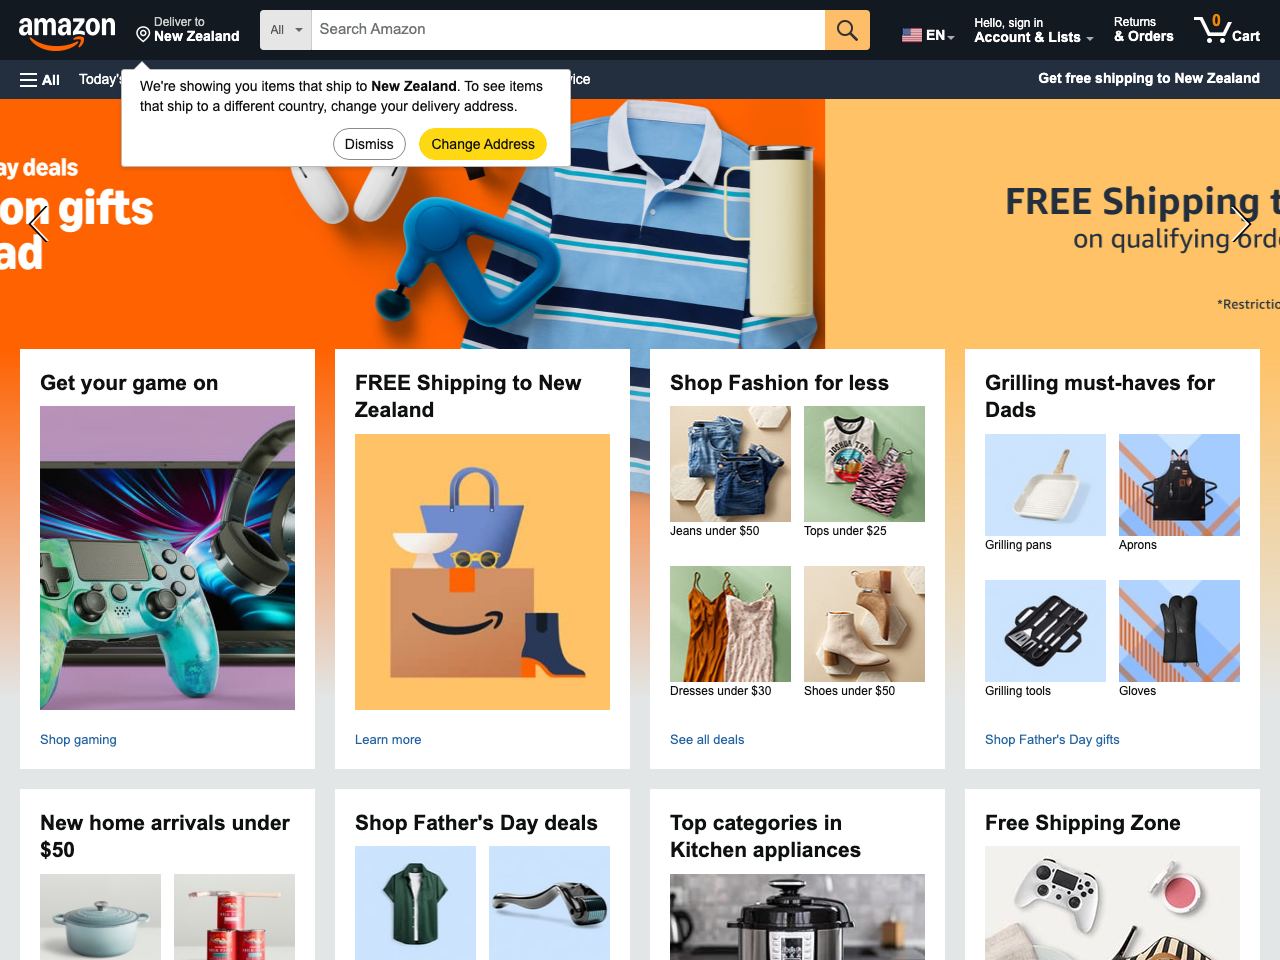
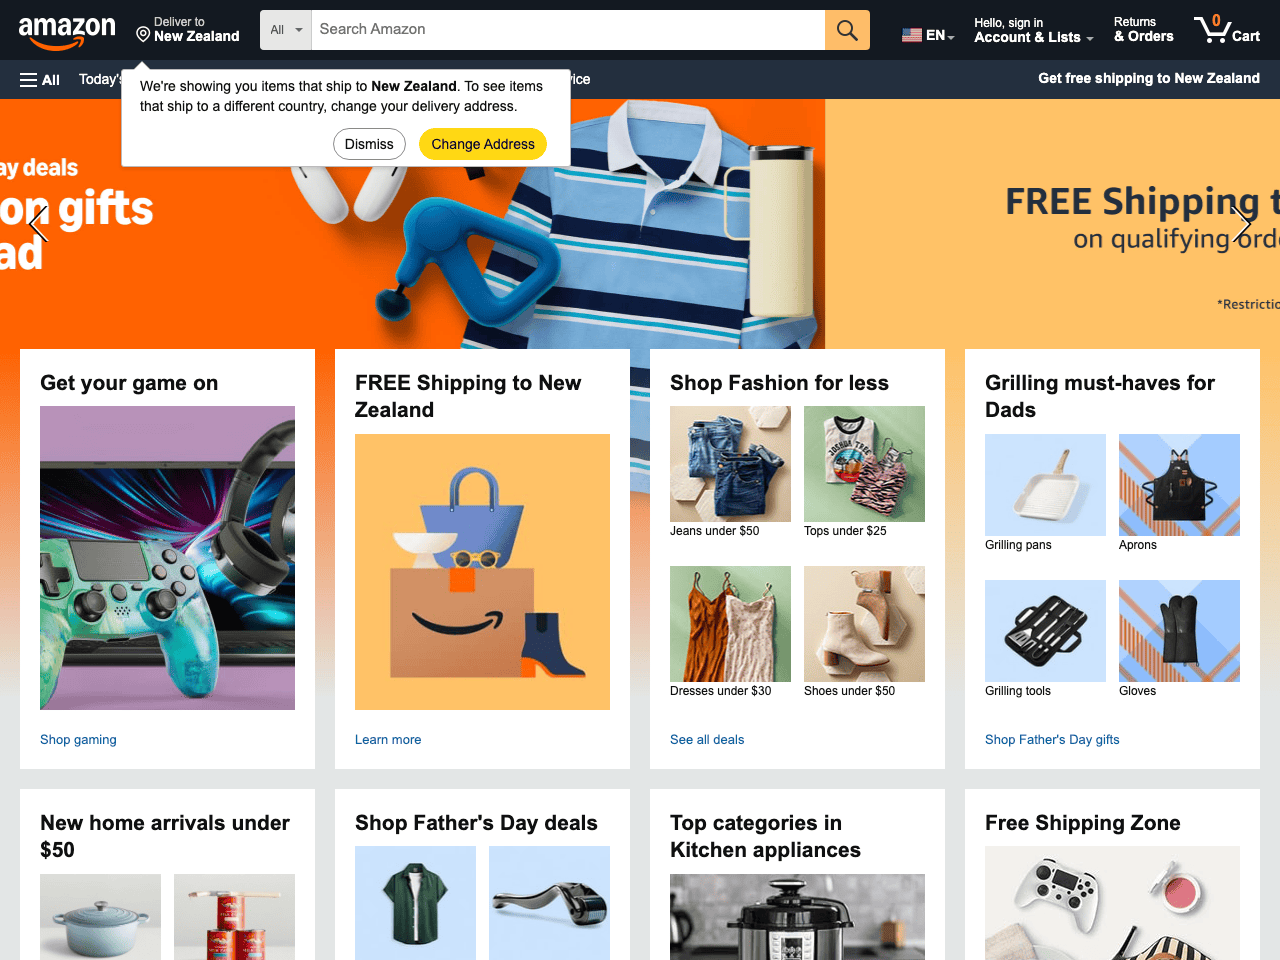
test: enforce 500KB screenshot ceiling; shrink amazon captures

diff --git a/src/data/entries.test.ts b/src/data/entries.test.ts
@@ -1,5 +1,5 @@
 import { describe, expect, test } from "bun:test";
-import { existsSync } from "node:fs";
+import { existsSync, statSync } from "node:fs";
 import { join } from "node:path";
 import { entries, TACTIC_LABELS } from "@/data/entries";
 
@@ -68,6 +68,15 @@ describe("content integrity", () => {
   test("famous entries cite a source", () => {
     for (const e of entries.filter((x) => x.kind === "famous")) {
       expect(e.sourceUrl?.length).toBeGreaterThan(0);
+    }
+  });
+
+  test("images are under the 500KB weight ceiling", () => {
+    for (const e of entries) {
+      const images = [e.thenImage, e.nowImage].filter(Boolean) as string[];
+      for (const p of images) {
+        expect(statSync(img(p)).size).toBeLessThan(500_000);
+      }
     }
   });
 });